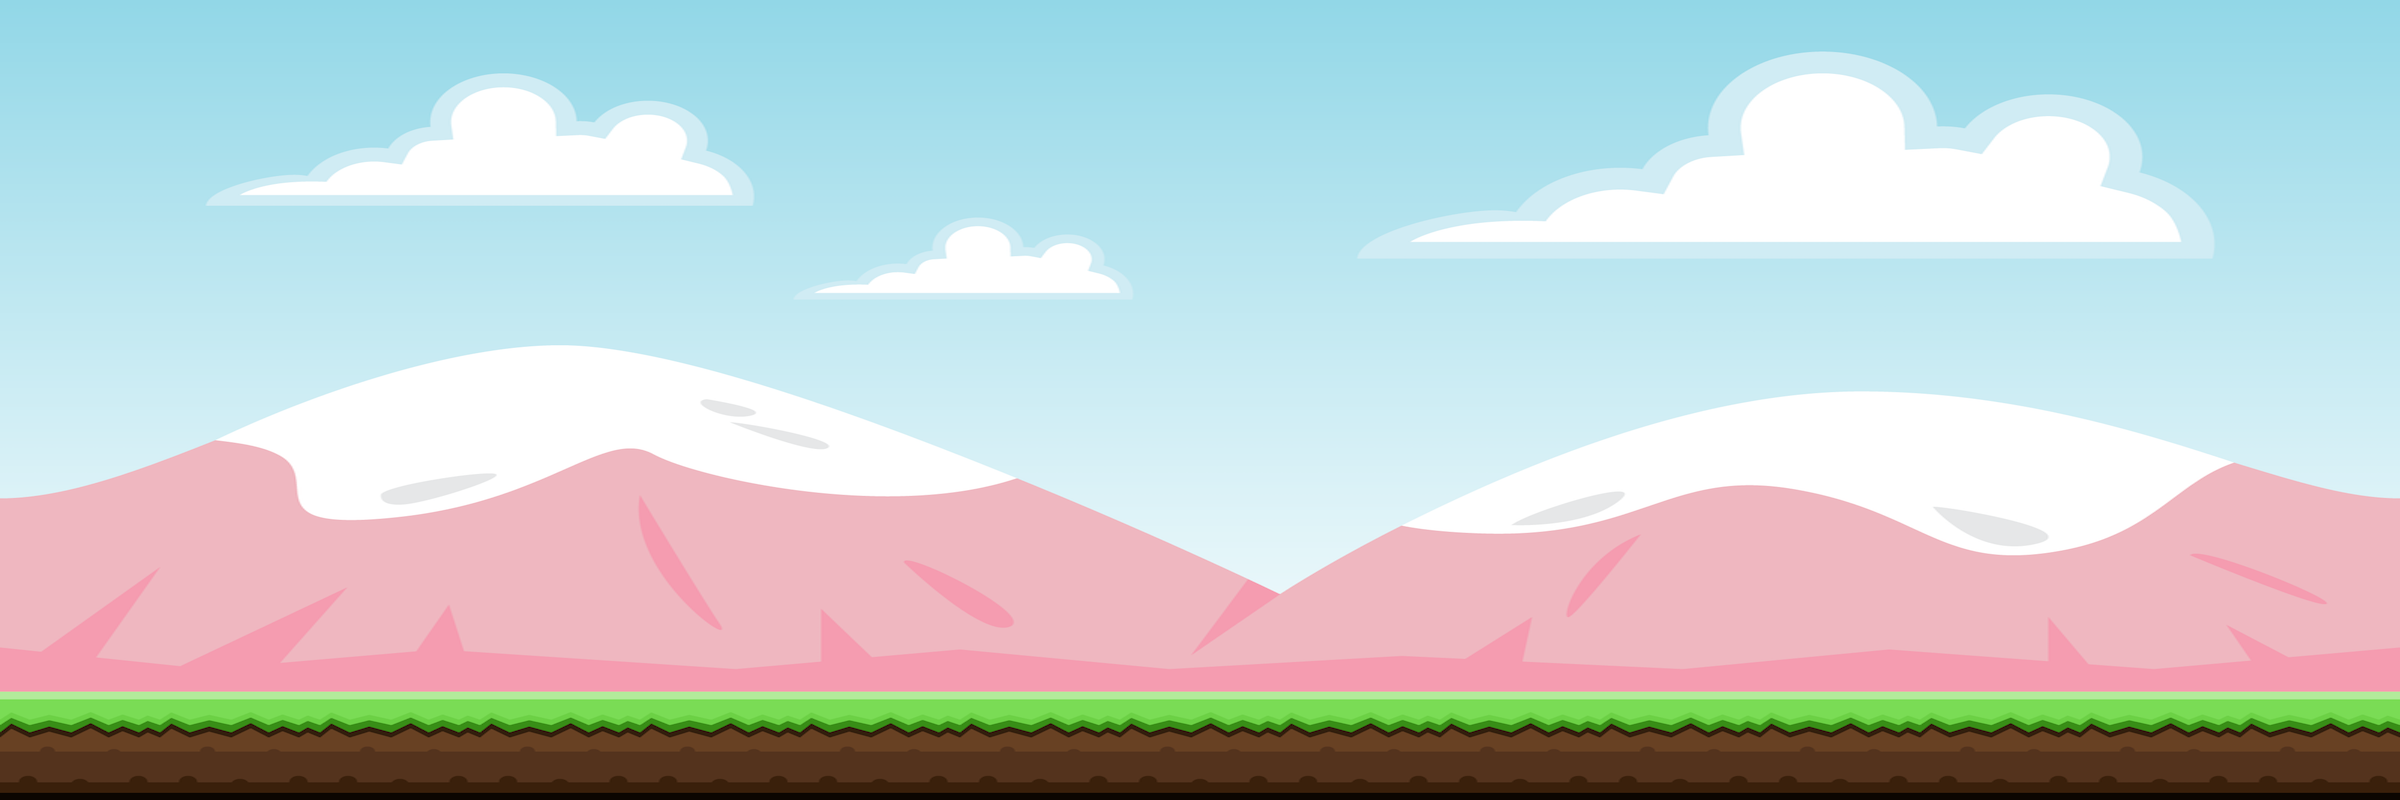
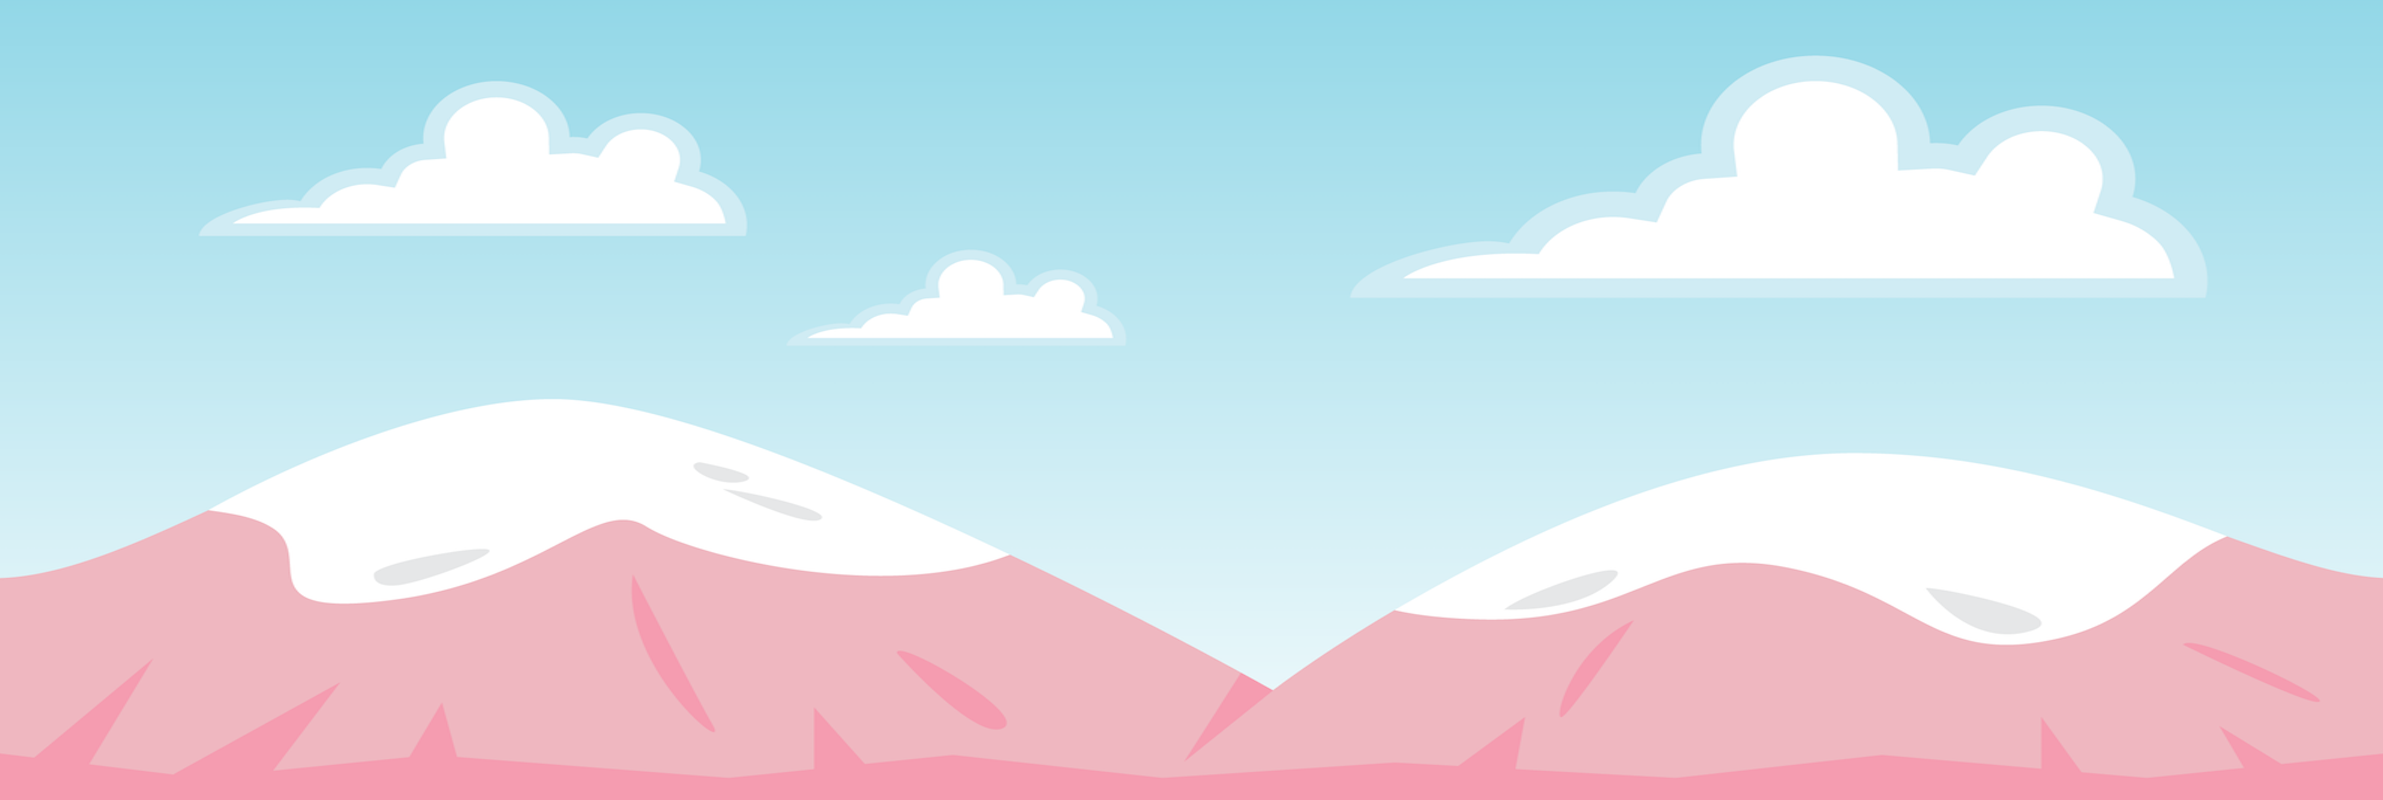
parallax background

diff --git a/index.html b/index.html
@@ -14,11 +14,14 @@
 
 <script type="text/javascript">
 
-var game = new Phaser.Game(2000, 600, Phaser.AUTO, '', { preload: preload, create: create, update: update, render: render });
+var game = new Phaser.Game(2000, 800, Phaser.AUTO, '', { preload: preload, create: create, update: update, render: render });
 
+// game.state.add("GameStart", game.GameStart);
 function preload() {
 
     game.load.image('background', 'assets/Full-Background.png');
+		game.load.image('sky', 'assets/sky.png');
+		game.load.image('mountain', 'assets/mountain.png');
     game.load.image('ground', 'assets/platform2.png');
     game.load.image('platform1', 'assets/platform1.png');
     game.load.image('platform2', 'assets/platform2.png');
@@ -26,16 +29,17 @@ function preload() {
     game.load.image('spiky', 'assets/spiky-monster.png', 35, 40);
     game.load.spritesheet('chicken', 'assets/chicken.png', 108, 115);
 
-
 }
 
 var player;
 var chicken;
 var platforms;
 var ground;
+var sky, mountain;
 var stars;
 var spiky;
 var cursors;
+var scale;
 var speed = 4;
 var style = 'default';
 var score = 0;
@@ -46,8 +50,15 @@ function create() {
     //  Arcade Physics system
     game.physics.startSystem(Phaser.Physics.ARCADE);
 
-    //  background
-    game.add.image(0, 0, 'background');
+		game.scale.scaleMode = Phaser.ScaleManager.RESIZE;
+
+		game.world.setBounds(0, 0, 2000, 800);
+
+    //  Parallax background, sky fixed to camera
+		var sky = game.add.image(0, 0, 'sky');
+		sky.fixedToCamera = true;
+
+		game.add.image(0, 0, 'mountain');
 
     //  The platforms group contains the ground and the 2 ledges
     platforms = game.add.group();
@@ -65,10 +76,13 @@ function create() {
     ground.body.immovable = true;
 
     //  Create the two ledges
-    var ledge = platforms.create(400, 400, 'platform1');
+    var ledge = platforms.create(400, 550, 'platform1');
     ledge.body.immovable = true;
 
-    ledge = platforms.create(-150, 200, 'platform2');
+    ledge = platforms.create(-150, 350, 'platform2');
+    ledge.body.immovable = true;
+
+		ledge = platforms.create(500, 200, 'platform2');
     ledge.body.immovable = true;
 
 
@@ -82,6 +96,10 @@ function create() {
     player.body.bounce.y = 0.2;
     player.body.gravity.y = 300;
     player.body.collideWorldBounds = true;
+		player.body.outOfBoundsKill = true;
+
+		// turn off the player collision with the bottom of the world
+    game.physics.arcade.checkCollision.down = false;
 
     //  Walking left and right.
     player.animations.add('left', [0, 9, 10], 10, true);
@@ -110,7 +128,7 @@ function create() {
 		game.world.resize(6000, 600)
 
     //  The score
-    scoreText = game.add.text(16, 16, 'score: 0', { fontSize: '32px', fill: 'white' });
+    scoreText = game.add.text(16, 16, 'Score: 0', { fontSize: '32px', fill: 'white' });
 
 		// Score text fixed to camera
 		scoreText.fixedToCamera = true;
@@ -258,11 +276,13 @@ function gameOver (player, spiky) {
 		// Removes the player from the screen
 		console.log('ouch');
 		player.kill()
+
+		game.state.start('Game');
 }
 
 function render() {
 
-		game.debug.spriteCoords(player, 32, 800)
+		// game.debug.spriteCoords(player, 32, 800)
 
 }
 
